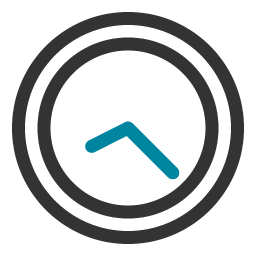
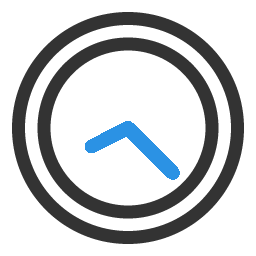
Main Color 변경

Changed region(s): [[0.3125, 0.4688, 0.7188, 0.7188]]

diff --git a/themes/startbootstrap-clean-blog-master/static/css/clean-blog.min.css b/themes/startbootstrap-clean-blog-master/static/css/clean-blog.min.css
@@ -7,7 +7,7 @@
 body{font-family: 'NanumSquare',serif;font-weight:300;font-size:20px;color:#404040;letter-spacing:-0.025em;}
 p{line-height:1.65;margin:30px 0}p a{text-decoration:underline}
 h1,h2,h3,h4,h5,h6{font-family: 'NanumSquare',serif;font-weight:800}
-a{color:#404040}a:hover,a:focus{color:#0085a1}
+a{color:#404040}a:hover,a:focus{color:#2b92e4;}
 a img:hover,a img:focus{cursor:zoom-in}
 blockquote{color:gray;font-style:italic}
 hr.small{max-width:50px;margin:15px auto;border-width:4px;border-color:#fff}
@@ -19,6 +19,6 @@ hr.small{max-width:50px;margin:15px auto;border-width:4px;border-color:#fff}
 .navbar-custom .navbar-brand:hover,.navbar-custom .navbar-brand:focus{color:rgba(255,255,255,.8)}
 .navbar-custom .nav li a{color:#fff;padding:20px}
 .navbar-custom .nav li a:hover,.navbar-custom .nav li a:focus{color:rgba(255,255,255,.8)}}
-@media only screen and (min-width:1170px){.navbar-custom{-webkit-transition:background-color .3s;-moz-transition:background-color .3s;transition:background-color .3s;-webkit-transform:translate3d(0,0,0);-moz-transform:translate3d(0,0,0);-ms-transform:translate3d(0,0,0);-o-transform:translate3d(0,0,0);transform:translate3d(0,0,0);-webkit-backface-visibility:hidden;backface-visibility:hidden}.navbar-custom.is-fixed{position:fixed;top:-61px;background-color:rgba(255,255,255,1);border-bottom:1px solid #f2f2f2;-webkit-transition:-webkit-transform .3s;-moz-transition:-moz-transform .3s;transition:transform .3s}.navbar-custom.is-fixed .navbar-brand{color:#404040}.navbar-custom.is-fixed .navbar-brand:hover,.navbar-custom.is-fixed .navbar-brand:focus{color:#0085a1}.navbar-custom.is-fixed .nav li a{color:#404040}.navbar-custom.is-fixed .nav li a:hover,.navbar-custom.is-fixed .nav li a:focus{color:#0085a1}.navbar-custom.is-visible{-webkit-transform:translate3d(0,100%,0);-moz-transform:translate3d(0,100%,0);-ms-transform:translate3d(0,100%,0);-o-transform:translate3d(0,100%,0);transform:translate3d(0,100%,0)}}.intro-header{background-color:gray;background:no-repeat center center;background-attachment:scroll;-webkit-background-size:cover;-moz-background-size:cover;background-size:cover;-o-background-size:cover;margin-bottom:50px}.intro-header .site-heading,.intro-header .post-heading,.intro-header .page-heading{padding:100px 0 50px;color:#fff}@media only screen and (min-width:768px){.intro-header .site-heading,.intro-header .post-heading,.intro-header .page-heading{padding:150px 0}}.intro-header .site-heading,.intro-header .page-heading{text-align:center}.intro-header .site-heading h1,.intro-header .page-heading h1{margin-top:0;font-size:50px}.intro-header .site-heading .subheading,.intro-header .page-heading .subheading{font-size:24px;line-height:1.1;display:block;font-family: 'NanumSquare',serif;font-weight:300;margin:10px 0 0}@media only screen and (min-width:768px){.intro-header .site-heading h1,.intro-header .page-heading h1{font-size:65px}}.intro-header .post-heading h1{font-size:35px}.intro-header .post-heading .subheading,.intro-header .post-heading .meta{line-height:1.1;display:block}.intro-header .post-heading .subheading{font-family: 'NanumSquare',serif;font-size:24px;margin:10px 0 30px;font-weight:600}.intro-header .post-heading .meta{font-family: 'NanumSquare',serif;font-style:italic;font-weight:300;font-size:20px}.intro-header .post-heading .meta a{color:#fff}@media only screen and (min-width:768px){.intro-header .post-heading h1{font-size:55px}.intro-header .post-heading .subheading{font-size:30px}}.post-preview>a{color:#404040}.post-preview>a:hover,.post-preview>a:focus{text-decoration:none;color:#0085a1}.post-preview>a>.post-title{font-size:30px;margin-top:30px;margin-bottom:10px}.post-preview>a>.post-subtitle{margin:0;font-weight:300;margin-bottom:10px}.post-preview>.post-meta{color:gray;font-size:18px;font-style:italic;margin-top:0;margin-bottom:0;}.post-preview>.post-meta>a{text-decoration:none;color:#404040}.post-preview>.post-meta>a:hover,.post-preview>.post-meta>a:focus{color:#0085a1;text-decoration:underline}@media only screen and (min-width:768px){.post-preview>a>.post-title{font-size:36px}}.section-heading{font-size:36px;margin-top:60px;font-weight:700}.caption{text-align:center;font-size:14px;padding:10px;font-style:italic;margin:0;display:block;border-bottom-right-radius:5px;border-bottom-left-radius:5px}footer{padding:50px 0 65px}footer .list-inline{margin:0;padding:0}footer .copyright{font-size:14px;text-align:center;margin-bottom:0}.floating-label-form-group{font-size:14px;position:relative;margin-bottom:0;padding-bottom:.5em;border-bottom:1px solid #eee}.floating-label-form-group input,.floating-label-form-group textarea{z-index:1;position:relative;padding-right:0;padding-left:0;border:none;border-radius:0;font-size:1.5em;background:0 0;box-shadow:none!important;resize:none}.floating-label-form-group label{display:block;z-index:0;position:relative;top:2em;margin:0;font-size:.85em;line-height:1.764705882em;vertical-align:middle;vertical-align:baseline;opacity:0;-webkit-transition:top .3s ease,opacity .3s ease;-moz-transition:top .3s ease,opacity .3s ease;-ms-transition:top .3s ease,opacity .3s ease;transition:top .3s ease,opacity .3s ease}.floating-label-form-group::not(:first-child){padding-left:14px;border-left:1px solid #eee}.floating-label-form-group-with-value label{top:0;opacity:1}.floating-label-form-group-with-focus label{color:#0085a1}form .row:first-child .floating-label-form-group{border-top:1px solid #eee}.btn{font-family: 'NanumSquare',serif;text-transform:uppercase;font-size:14px;font-weight:800;letter-spacing:1px;border-radius:0;padding:15px 25px}.btn-lg{font-size:16px;padding:25px 35px}.btn-default:hover,.btn-default:focus{background-color:#0085a1;border:1px solid #0085a1;color:#fff}.pager{margin:20px 0 0}.pager li>a,.pager li>span{font-family: 'NanumSquare',serif;text-transform:uppercase;font-size:14px;font-weight:800;letter-spacing:1px;padding:15px 25px;background-color:#fff;border-radius:0}.pager li>a:hover,.pager li>a:focus{color:#fff;background-color:#0085a1;border:1px solid #0085a1}.pager .disabled>a,.pager .disabled>a:hover,.pager .disabled>a:focus,.pager .disabled>span{color:gray;background-color:#404040;cursor:not-allowed}::-moz-selection{color:#fff;text-shadow:none;background:#0085a1}::selection{color:#fff;text-shadow:none;background:#0085a1}img::selection{color:#fff;background:0 0}img::-moz-selection{color:#fff;background:0 0}body{-webkit-tap-highlight-color:rgba(0,133,161,0.2);}
+@media only screen and (min-width:1170px){.navbar-custom{-webkit-transition:background-color .3s;-moz-transition:background-color .3s;transition:background-color .3s;-webkit-transform:translate3d(0,0,0);-moz-transform:translate3d(0,0,0);-ms-transform:translate3d(0,0,0);-o-transform:translate3d(0,0,0);transform:translate3d(0,0,0);-webkit-backface-visibility:hidden;backface-visibility:hidden}.navbar-custom.is-fixed{position:fixed;top:-61px;background-color:rgba(255,255,255,1);border-bottom:1px solid #f2f2f2;-webkit-transition:-webkit-transform .3s;-moz-transition:-moz-transform .3s;transition:transform .3s}.navbar-custom.is-fixed .navbar-brand{color:#404040}.navbar-custom.is-fixed .navbar-brand:hover,.navbar-custom.is-fixed .navbar-brand:focus{color:#176db5}.navbar-custom.is-fixed .nav li a{color:#404040}.navbar-custom.is-fixed .nav li a:hover,.navbar-custom.is-fixed .nav li a:focus{color:#176db5}.navbar-custom.is-visible{-webkit-transform:translate3d(0,100%,0);-moz-transform:translate3d(0,100%,0);-ms-transform:translate3d(0,100%,0);-o-transform:translate3d(0,100%,0);transform:translate3d(0,100%,0)}}.intro-header{background-color:gray;background:no-repeat center center;background-attachment:scroll;-webkit-background-size:cover;-moz-background-size:cover;background-size:cover;-o-background-size:cover;margin-bottom:50px}.intro-header .site-heading,.intro-header .post-heading,.intro-header .page-heading{padding:100px 0 50px;color:#fff}@media only screen and (min-width:768px){.intro-header .site-heading,.intro-header .post-heading,.intro-header .page-heading{padding:150px 0}}.intro-header .site-heading,.intro-header .page-heading{text-align:center}.intro-header .site-heading h1,.intro-header .page-heading h1{margin-top:0;font-size:50px}.intro-header .site-heading .subheading,.intro-header .page-heading .subheading{font-size:24px;line-height:1.1;display:block;font-family: 'NanumSquare',serif;font-weight:300;margin:10px 0 0}@media only screen and (min-width:768px){.intro-header .site-heading h1,.intro-header .page-heading h1{font-size:65px}}.intro-header .post-heading h1{font-size:35px}.intro-header .post-heading .subheading,.intro-header .post-heading .meta{line-height:1.1;display:block}.intro-header .post-heading .subheading{font-family: 'NanumSquare',serif;font-size:24px;margin:10px 0 30px;font-weight:600}.intro-header .post-heading .meta{font-family: 'NanumSquare',serif;font-style:italic;font-weight:300;font-size:20px}.intro-header .post-heading .meta a{color:#fff}@media only screen and (min-width:768px){.intro-header .post-heading h1{font-size:55px}.intro-header .post-heading .subheading{font-size:30px}}.post-preview>a{color:#404040}.post-preview>a:hover,.post-preview>a:focus{text-decoration:none;color:#176db5}.post-preview>a>.post-title{font-size:30px;margin-top:30px;margin-bottom:10px}.post-preview>a>.post-subtitle{margin:0;font-weight:300;margin-bottom:10px}.post-preview>.post-meta{color:gray;font-size:18px;font-style:italic;margin-top:0;margin-bottom:0;}.post-preview>.post-meta>a{text-decoration:none;color:#404040}.post-preview>.post-meta>a:hover,.post-preview>.post-meta>a:focus{color:#176db5;text-decoration:underline}@media only screen and (min-width:768px){.post-preview>a>.post-title{font-size:36px}}.section-heading{font-size:36px;margin-top:60px;font-weight:700}.caption{text-align:center;font-size:14px;padding:10px;font-style:italic;margin:0;display:block;border-bottom-right-radius:5px;border-bottom-left-radius:5px}footer{padding:50px 0 65px}footer .list-inline{margin:0;padding:0}footer .copyright{font-size:14px;text-align:center;margin-bottom:0}.floating-label-form-group{font-size:14px;position:relative;margin-bottom:0;padding-bottom:.5em;border-bottom:1px solid #eee}.floating-label-form-group input,.floating-label-form-group textarea{z-index:1;position:relative;padding-right:0;padding-left:0;border:none;border-radius:0;font-size:1.5em;background:0 0;box-shadow:none!important;resize:none}.floating-label-form-group label{display:block;z-index:0;position:relative;top:2em;margin:0;font-size:.85em;line-height:1.764705882em;vertical-align:middle;vertical-align:baseline;opacity:0;-webkit-transition:top .3s ease,opacity .3s ease;-moz-transition:top .3s ease,opacity .3s ease;-ms-transition:top .3s ease,opacity .3s ease;transition:top .3s ease,opacity .3s ease}.floating-label-form-group::not(:first-child){padding-left:14px;border-left:1px solid #eee}.floating-label-form-group-with-value label{top:0;opacity:1}.floating-label-form-group-with-focus label{color:#176db5}form .row:first-child .floating-label-form-group{border-top:1px solid #eee}.btn{font-family: 'NanumSquare',serif;text-transform:uppercase;font-size:14px;font-weight:800;letter-spacing:1px;border-radius:0;padding:15px 25px}.btn-lg{font-size:16px;padding:25px 35px}.btn-default:hover,.btn-default:focus{background-color:#176db5;border:1px solid #176db5;color:#fff}.pager{margin:20px 0 0}.pager li>a,.pager li>span{font-family: 'NanumSquare',serif;text-transform:uppercase;font-size:14px;font-weight:800;letter-spacing:1px;padding:15px 25px;background-color:#fff;border-radius:0}.pager li>a:hover,.pager li>a:focus{color:#fff;background-color:#176db5;border:1px solid #176db5}.pager .disabled>a,.pager .disabled>a:hover,.pager .disabled>a:focus,.pager .disabled>span{color:gray;background-color:#404040;cursor:not-allowed}::-moz-selection{color:#fff;text-shadow:none;background:#176db5}::selection{color:#fff;text-shadow:none;background:#176db5}img::selection{color:#fff;background:0 0}img::-moz-selection{color:#fff;background:0 0}body{-webkit-tap-highlight-color:rgba(0,133,161,0.2);}
 
 

diff --git a/themes/startbootstrap-clean-blog-master/static/css/custom.css b/themes/startbootstrap-clean-blog-master/static/css/custom.css
@@ -22,7 +22,7 @@ img{width:100%;}
     padding: 1.5rem 1rem;
 }
 .navbar-brand > img{
-    width:150px!important;
+    width:215px!important;
 }
 .navbar{
     margin-bottom:0;
@@ -145,6 +145,9 @@ img{width:100%;}
     margin-right: 0.5rem;
     color: gray;
 }
+.post-preview>a:hover, .post-preview>a:focus {
+    color: #2b92e4;
+}
 .author{
     font-size: 1.65rem;
     /*margin-left:1.5rem;*/
@@ -165,6 +168,7 @@ img{width:100%;}
     background-position: center;
     background-size: cover;
     background-repeat: no-repeat;
+    pointer-events: none;
 }
 .post-avatar.img-avatar {
     background-size: 5rem;
@@ -240,7 +244,7 @@ img{width:100%;}
     padding-right:30px;
 }
 blockquote{
-    border-left: 5px solid #0085a1!important;
+    border-left: 5px solid #176db5!important;
 }
 blockquote p{
     margin-top:0;
@@ -269,7 +273,7 @@ img{width:100%;}
         color:#404040;
     }
     .navbar-custom .nav li a:hover, .navbar-custom .nav li a:focus{
-        color:#0085a1;
+        color:#176db5;
     }
     .navbar-custom .navbar-brand{
         display: inline-block;
@@ -293,7 +297,7 @@ img{width:100%;}
     } 
 
     blockquote{
-        border-left: 5px solid #0085a1!important;
+        border-left: 5px solid #176db5!important;
     }
     blockquote p{
         margin-top:0;
@@ -317,7 +321,7 @@ img{width:100%;}
 .category .category-title {
     font-weight: 600;
     padding: 1rem;
-    color:#0085a1; 
+    color:#176db5; 
 }
 .category .category-list {
     padding-left: 2rem;
@@ -398,7 +402,7 @@ p a {
     text-decoration: unset;
 }
 blockquote{
-    border-left: 5px solid #0085a1!important;
+    border-left: 5px solid #176db5!important;
 }
 blockquote p{
     margin-top:0;
@@ -409,13 +413,13 @@ img{width:100%;}
 
 
 .pagination>.active>a, .pagination>.active>a:focus, .pagination>.active>a:hover, .pagination>.active>span, .pagination>.active>span:focus, .pagination>.active>span:hover {
-    background-color: #0085a1;
+    background-color: #176db5;
 }
 .pagination>li:last-child>a, .pagination>li:last-child>span {
-    color: #0085a1;
+    color: #176db5;
 }
 .content-line a {
-    color: #0085a1;
+    color: #176db5;
 }
 .content-line p {
     word-break: break-all;
@@ -442,6 +446,9 @@ img{width:100%;}
     padding-left: 15px;
     padding-top: 5px;
     position: relative;
+}
+.post-preview>.post-meta {
+    font-style: normal;
 }
 .navbar-toggle {
     margin-top: 12.5px;
@@ -486,7 +493,15 @@ img{width:100%;}
     background-position: center;
     background-repeat: no-repeat;
 }
-
+.pager li .older-post__btn {
+    background-color: #176db5;
+    color: #fff;
+    border: 0;
+}
+.pager li .older-post__btn:hover {
+    background-color: #2b92e4;
+    border: 0;
+}
 .dkhome-link {
     position: relative;
     display: inline-block;
@@ -502,7 +517,7 @@ img{width:100%;}
     background-repeat: no-repeat;
 }
 .dkhome-link:hover {
-    background-color: #0085a1;
+    background-color: #2b92e4;
 }
 
 @media all and (max-width: 360px) {
@@ -543,7 +558,7 @@ img{width:100%;}
         display: block;
     }
     .navbar-brand > img {
-        width: 120px !important;
+        width: 185px !important;
         margin-top: 3.5px;
     }
 }
@@ -562,7 +577,7 @@ th {
     font-size: 16px;
     font-weight: bold;
     border: 1px solid #ccc;
-    border-bottom: 2px solid #0085a1;
+    border-bottom: 2px solid #176db5;
 }
 tr {
     background: #fff;
@@ -584,7 +599,7 @@ table tbody tr:nth-child(even), table tbody tr:nth-child(even) {
 
 /* 채용정보 메인 */
 .job-container hr {
-    border-color: #0085a1;
+    border-color: #176db5;
     border-width: 3px;
 }
 .job-main-container {
@@ -650,7 +665,7 @@ table tbody tr:nth-child(even), table tbody tr:nth-child(even) {
 .job-container table tbody tr td.recruit-status > a {
     text-decoration: none;
     color: #fff;
-    background-color: #0085a1;
+    background-color: #176db5;
     display: inline-block;
     padding: 3px 10px;
     font-size: 14px;
@@ -672,11 +687,14 @@ table tbody tr:nth-child(even), table tbody tr:nth-child(even) {
     padding: 25px 20px;
 }
 .job-container table tbody tr:hover a {
-    color: #0085a1;
+    color: #176db5;
     text-decoration: underline;
 }
 .job-container a {
-    color: #0085a1;
+    color: #176db5;
+}
+.job-container a:hover {
+    color: #2b92e4;
 }
 .job-container ol > li > ul {
     margin-bottom: 15px;
@@ -735,7 +753,7 @@ table tbody tr:nth-child(even), table tbody tr:nth-child(even) {
 .job-benefits__line {
     width: 20px;
     height: 3px;
-    background-color: #0085a1;
+    background-color: #176db5;
     margin: 0 auto;
     margin-bottom: 8px;
 }
@@ -767,7 +785,7 @@ table tbody tr:nth-child(even), table tbody tr:nth-child(even) {
     border-bottom: 1px solid #f1f1f1;
     font-weight: 600;
     padding: 1rem;
-    color: #0085a1;
+    color: #176db5;
     margin-top: 5px;
 }
 
@@ -792,8 +810,9 @@ table tbody tr:nth-child(even), table tbody tr:nth-child(even) {
     color: #404040;
     font-size: 25px;
 }
-.job-container .recruit-list > li > a:hover > h5 {
-    color: #0085a1;
+.job-container .recruit-list > li > a:hover > h5,
+.job-container .recruit-list > li > a:hover > p {
+    color: #2b92e4;
 }
 .job-container .recruit-list > li > a > p {
     color: #999;
@@ -810,7 +829,7 @@ table tbody tr:nth-child(even), table tbody tr:nth-child(even) {
     position: absolute;
     color: #fff;
     font-size: 18px;
-    background-color: #0085a1;
+    background-color: #176db5;
     top: 50%;
     right: 15px;
     margin-top: -18px;

diff --git a/themes/startbootstrap-clean-blog-master/layouts/partials/header.html b/themes/startbootstrap-clean-blog-master/layouts/partials/header.html
@@ -14,7 +14,7 @@
     <meta property="og:title" content="DKBMC 기술 블로그"/>
     <meta property="og:description" content="DKBMC 기술 블로그입니다."/>
     <meta property="og:url" content="http://blog.dkbmc.com"/>
-    <meta property="og:image" content="{{ .Site.BaseURL }}/img/ico-dktech.png"/>
+    <meta property="og:image" content="{{ .Site.BaseURL }}/img/DK-tech-color-kr.png"/>
     <meta property="og:image:width" content="100"/>
     <meta property="og:image:height" content="100"/>
 
@@ -70,7 +70,7 @@
                     <span class="icon-bar"></span>
                     <span class="icon-bar"></span>
                 </button>
-                <a class="navbar-brand" href="{{ .Site.BaseURL }}"><img src="{{ .Site.BaseURL }}/img/ico-dktech.png" alt="Home" style="width: 150px;cursor:pointer;margin-left: 10px"/></a>
+                <a class="navbar-brand" href="{{ .Site.BaseURL }}"><img src="{{ .Site.BaseURL }}/img/DK-tech-color-kr.png" alt="Home" style="width: 150px;cursor:pointer;margin-left: 10px"/></a>
             </div>
 
             {{ partial "navbar.html" . }}

diff --git a/themes/startbootstrap-clean-blog-master/layouts/post/single.html b/themes/startbootstrap-clean-blog-master/layouts/post/single.html
@@ -11,7 +11,7 @@
              <div class="post-heading">
                <h1>{{ .Title }}</h1>
                <h2 class="subheading" style="font-weight:200;font-size:2.25rem;">{{ .Description }}</h2>
-               <hr class="small" style="border-color: #0085a1;"/>
+               <hr class="small" style="border-color: #176db5;"/>
                <span class="post-preview_date"><b>{{.Page.Date.Format "Mon, Jan 2, 2006"}}</b></span>
                <span style="color:#fff;font-size: 1.65rem;">written by</span>
                 <a href="#" class="author">

diff --git a/themes/startbootstrap-clean-blog-master/layouts/_default/list.html b/themes/startbootstrap-clean-blog-master/layouts/_default/list.html
@@ -8,7 +8,7 @@
       <div class="col-lg-10 col-md-10">
         <div class="post-heading">
           <h1>{{ .Title }}</h1>
-          <hr class="small" style="border-color:#0085a1;">
+          <hr class="small" style="border-color:#176db5;">
           <h2 class="subheading" style="font-weight:200;font-size:1.85rem;">{{ .Description }}</h2>
         </div>
       </div>

diff --git a/themes/startbootstrap-clean-blog-master/layouts/index.html b/themes/startbootstrap-clean-blog-master/layouts/index.html
@@ -34,7 +34,7 @@
           <!-- Pager --> 
           <ul class="pager">
             <li class="next">
-              <a href="{{ .Site.BaseURL }}/post/">Older Posts &rarr;</a>
+              <a href="{{ .Site.BaseURL }}/post/" class="older-post__btn">Older Posts &rarr;</a>
             </li>
           </ul>
         </div>

diff --git a/content/job/backend.md b/content/job/backend.md
@@ -11,8 +11,10 @@ period: "2019.06.12 00:00 ~ 2019.06.30 00:00"
 # 접수중:true / 접수마감:false
 recruit: false
 
-date: 2019-06-12T09:45:00+09:00
+#공개: false / 비공개: true
 draft: false
+
+date: 2019-06-12T09:45:00+09:00
 ---
 
 <!-- 채용관련 내용 작성 -->

diff --git a/content/job/frontend.md b/content/job/frontend.md
@@ -11,8 +11,10 @@ period: "2019.06.12 00:00 ~ 2019.06.30 00:00"
 # 접수중:true / 접수마감:false
 recruit: true
 
-date: 2019-06-12T09:18:22+09:00
+#공개: false / 비공개: true
 draft: false
+
+date: 2019-06-12T09:18:22+09:00
 ---
 
 <!-- 채용관련 내용 작성 -->

diff --git a/content/job/fullstack.md b/content/job/fullstack.md
@@ -11,8 +11,10 @@ period: "2019.06.12 00:00 ~ 2019.06.30 00:00"
 # 접수중:true / 접수마감:false
 recruit: true
 
-date: 2019-06-13T14:40:08+09:00
+#공개: false / 비공개: true
 draft: false
+
+date: 2019-06-13T14:40:08+09:00
 ---
 
 <!-- 채용관련 내용 작성 -->

diff --git a/archetypes/default.md b/archetypes/default.md
@@ -11,8 +11,10 @@ period: "2019.06.12 00:00 ~ 2019.06.30 00:00"
 # 접수중:true / 접수마감:false
 recruit: true
 
-date: {{.Date}}
+#공개: false / 비공개: true
 draft: false
+
+date: {{.Date}}
 ---
 
 <!-- 채용관련 내용 작성 -->
